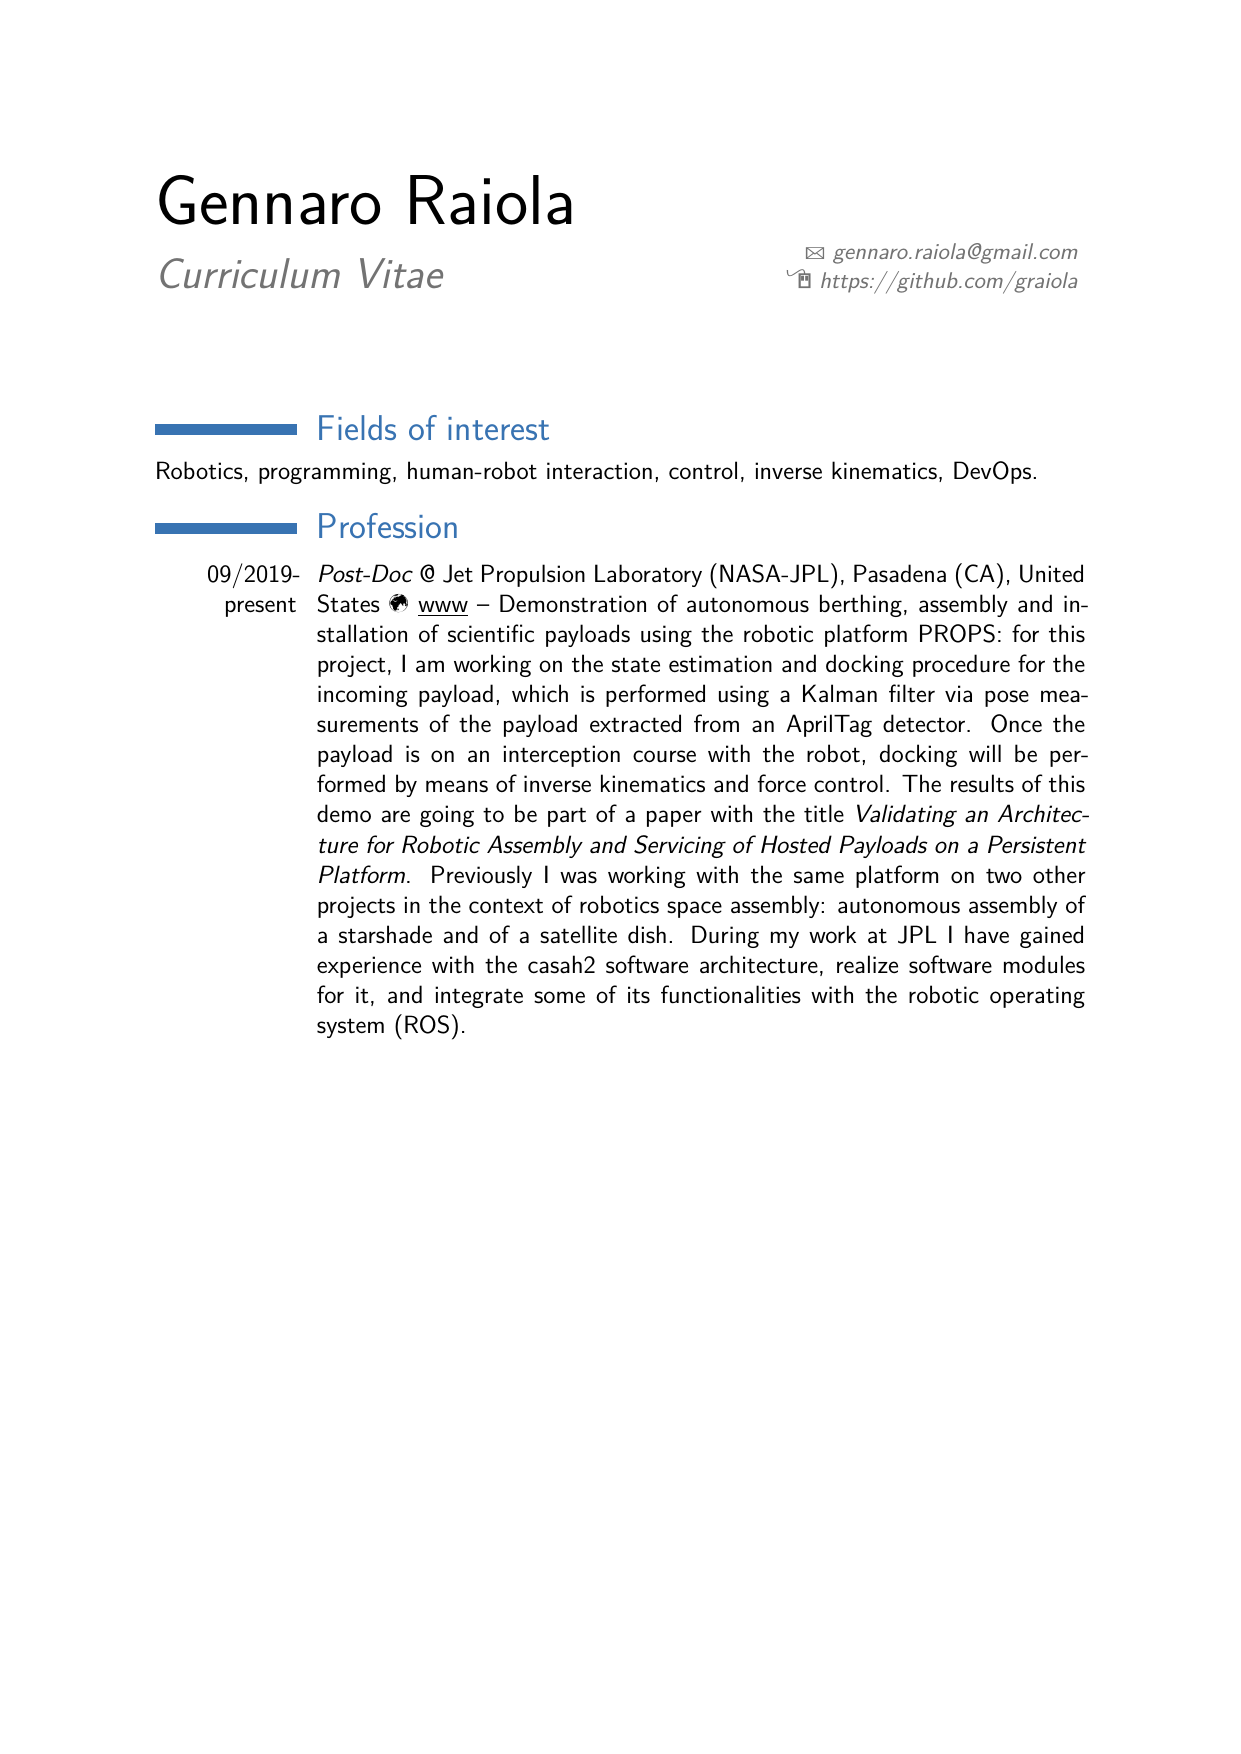
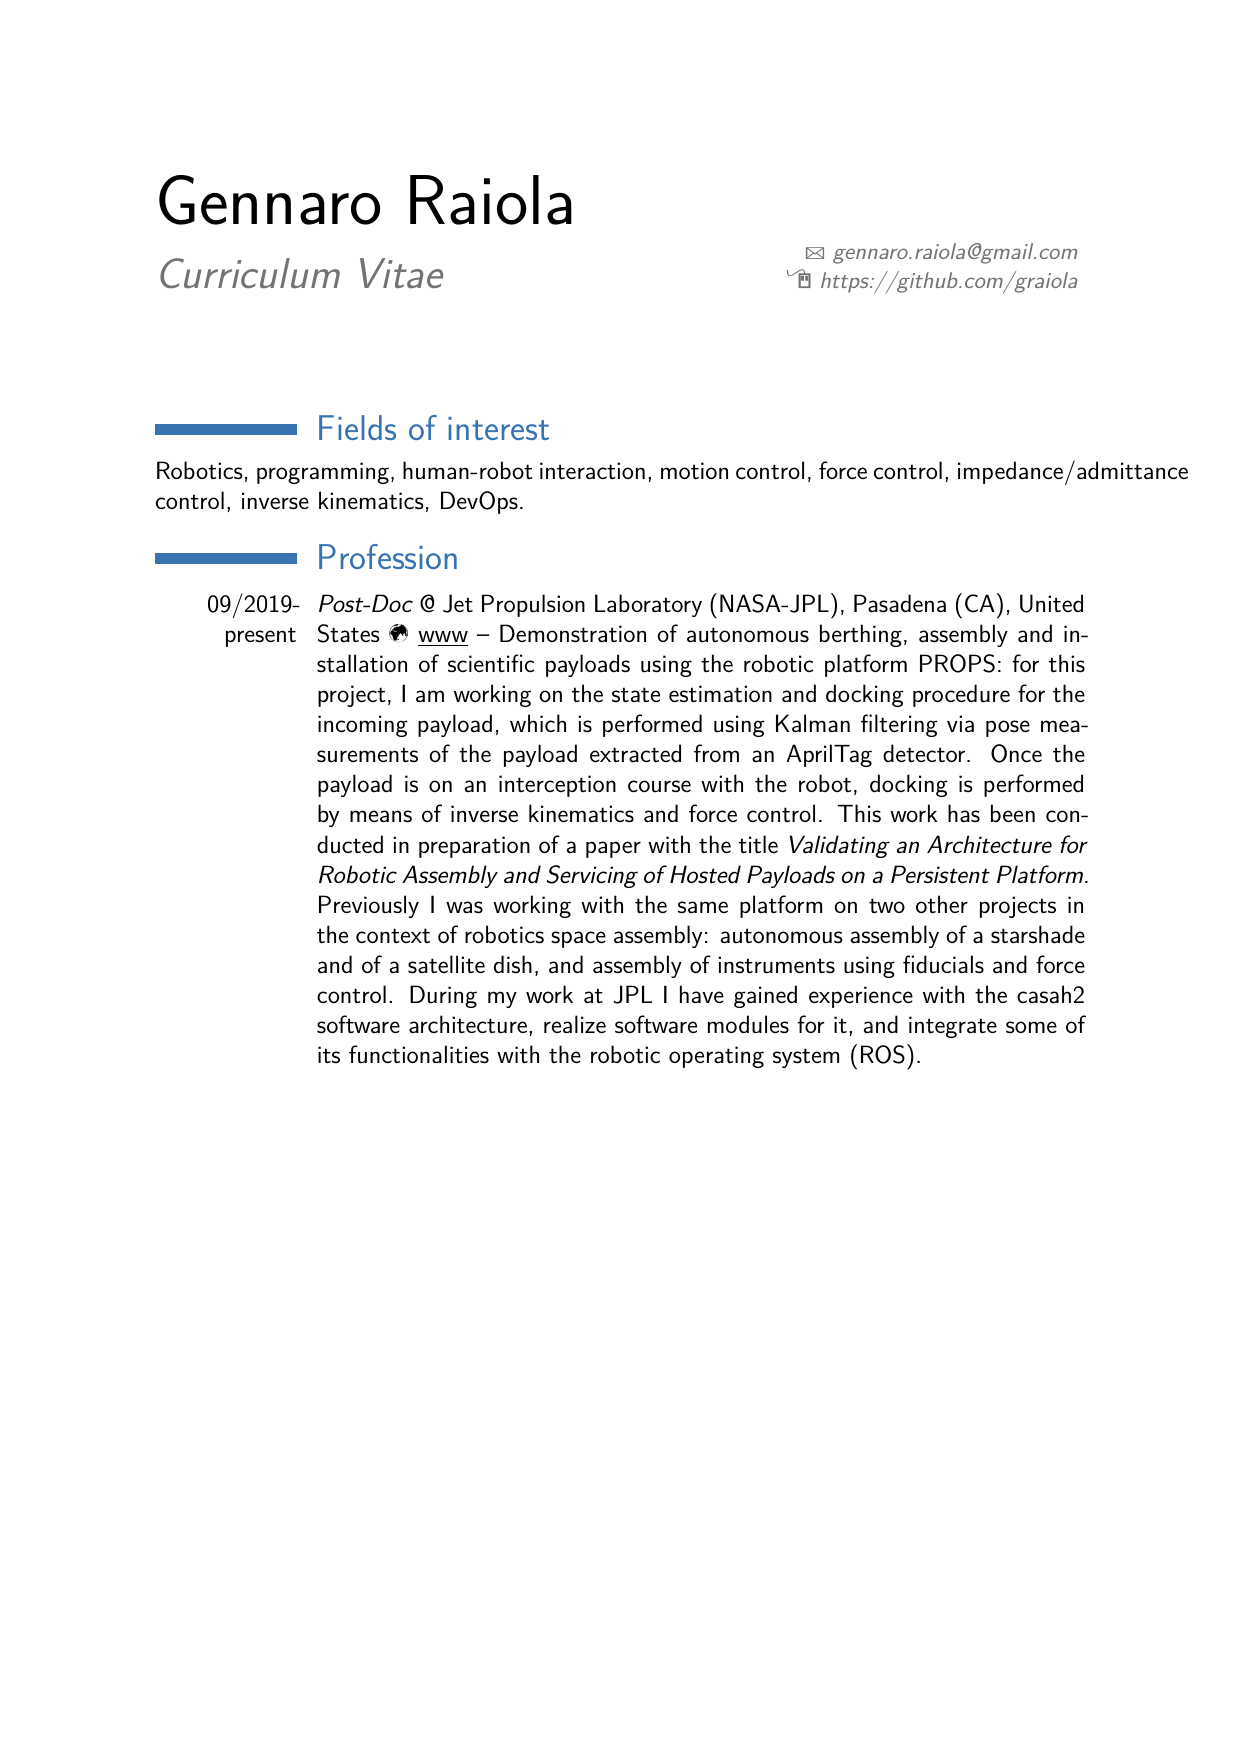
Generated files updated on Tue Jun 23 18:17:45 PDT 2020

Changed region(s): [[0.1225, 0.2463, 0.9492, 0.6157]]

diff --git a/CV_Gennaro-Raiola.tex b/CV_Gennaro-Raiola.tex
@@ -71,12 +71,12 @@
 
 
 \section{Fields of interest}
-Robotics, programming, human-robot interaction, control, inverse kinematics, DevOps.
+Robotics, programming, human-robot interaction, motion control, force control, impedance/admittance control, inverse kinematics, DevOps.
 
 \section{Profession}
 
-\cvitem{09/2019-present}{\emph{Post-Doc} @ Jet Propulsion Laboratory (NASA-JPL), Pasadena (CA), United States \Mundus \href{https://www.jpl.nasa.gov/}{ \underline{www}} – Demonstration of autonomous berthing, assembly and installation of scientific payloads using the robotic platform PROPS: for this project, I am working on the state estimation and docking procedure for the incoming payload, which is performed using a Kalman filter via pose measurements of the payload extracted from an AprilTag detector. Once the payload is on an interception course with the robot, docking will be performed by means of inverse kinematics and force control. The results of this demo are going to be part of a paper with the title \emph{Validating an Architecture for Robotic Assembly and Servicing of Hosted Payloads on a Persistent Platform}.
-Previously I was working with the same platform on two other projects in the context of robotics space assembly: autonomous assembly of a starshade and of a satellite dish. During my work at JPL I have gained experience with the casah2 software architecture, realize software modules for it, and integrate some of its functionalities with the robotic operating system (ROS).}
+\cvitem{09/2019-present}{\emph{Post-Doc} @ Jet Propulsion Laboratory (NASA-JPL), Pasadena (CA), United States \Mundus \href{https://www.jpl.nasa.gov/}{ \underline{www}} – Demonstration of autonomous berthing, assembly and installation of scientific payloads using the robotic platform PROPS: for this project, I am working on the state estimation and docking procedure for the incoming payload, which is performed using Kalman filtering via pose measurements of the payload extracted from an AprilTag detector. Once the payload is on an interception course with the robot, docking is performed by means of inverse kinematics and force control. This work has been conducted in preparation of a paper with the title \emph{Validating an Architecture for Robotic Assembly and Servicing of Hosted Payloads on a Persistent Platform}.
+Previously I was working with the same platform on two other projects in the context of robotics space assembly: autonomous assembly of a starshade and of a satellite dish, and assembly of instruments using fiducials and force control. During my work at JPL I have gained experience with the casah2 software architecture, realize software modules for it, and integrate some of its functionalities with the robotic operating system (ROS).}
 
 \cvitem{09/2017-06/2019}{\emph{Post-Doc} @ Istituto Italiano di Tecnologia (IIT), Genoa, Italy \Mundus \href{https://www.iit.it/research/lines/dynamic-legged-systems}{ \underline{www}} – During my work at IIT, I had the opportunity to work on several aspects of the development and maintenance of software and electronics for the quadruped robots HyQ and HyQReal. I was responsible for the development of a real-time control framework and communication system with EtherCAT for the robots. I developed the software control architecture with ROS-Control, in order to make the robot capable of executing different types of gaits (e.g. crawl, trot, etc.) in complex and changing terrains. I also developed the low level safety software layer to protect the robot hardware and human operators. 
 I was also responsible for the DevOps processes, which included: creating and maintaining fully automated CI/CD pipelines for code testing and deployment using GitLab-CI, deploying apt servers to track the software dependencies, and developing Docker containers for code testing and development. 
